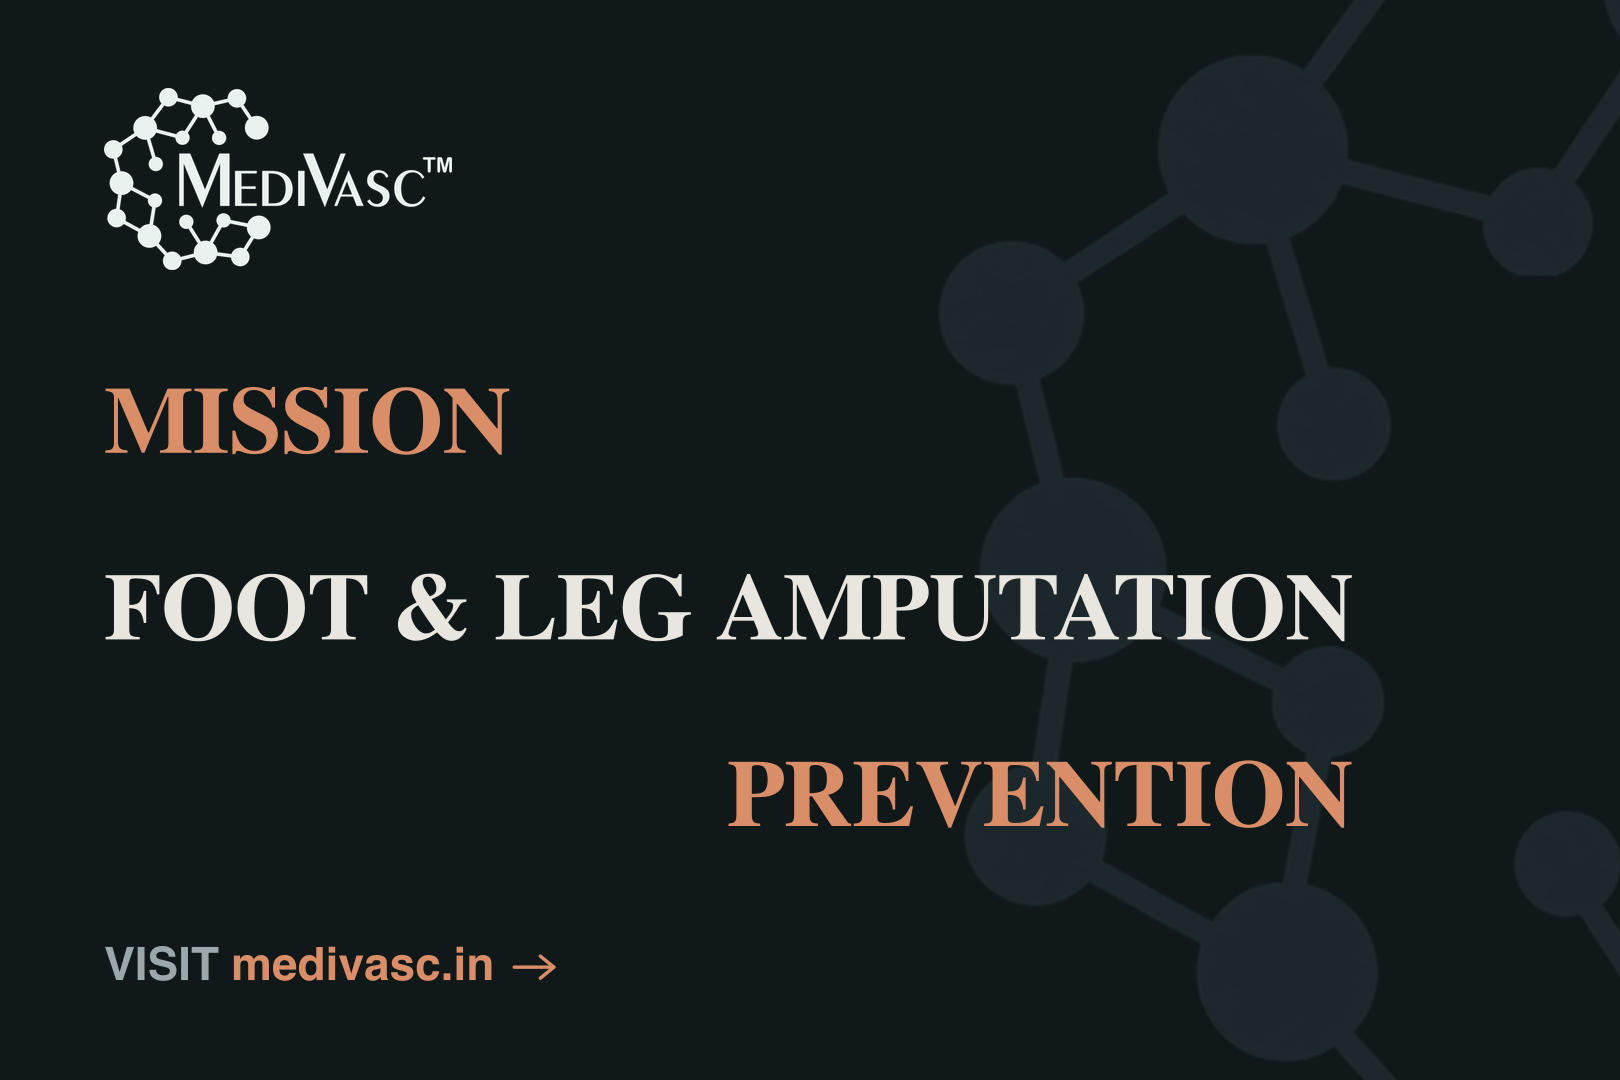
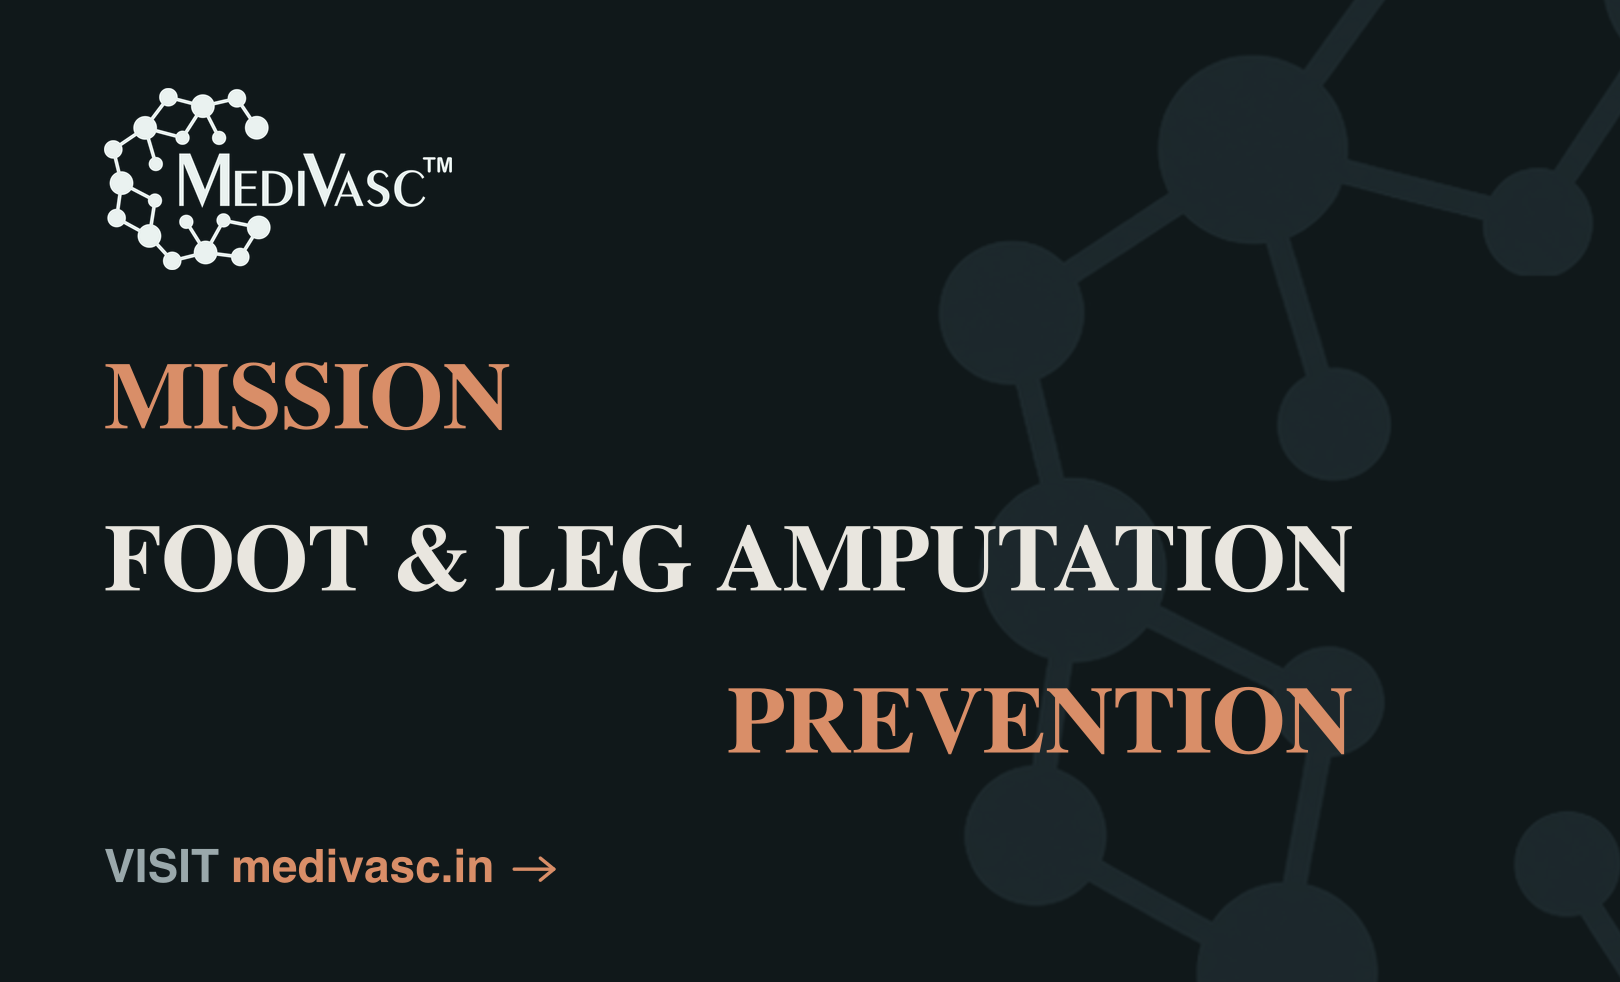
campaign: mission card — tighter rhythm, height solved from it
Line spacing down 20% and the card shortened by exactly what that removed.

The change worth keeping is which way the dependency runs. The height was
fixed at 3:2 and the step was the residual — which is how the card ended up
with a 119px rhythm nobody chose. Now the step is the input and the height is
solved from it: five things one step apart, plus the call to action's box and
the two pads, rounded to an even number. Change fmt.step and the canvas follows.

  step    88px, rendering as a ~95px visible gap (a line's box is a few px
          taller than the capitals in it)
  gaps    118/119/120/119 -> 93/95/96/95, measured off the PNG
  canvas  1620x1080 (3:2) -> 1620x982 (1.650:1)

setStack no longer takes a height budget — width alone binds, since the canvas
now follows the type instead of constraining it. The old `even rhythm` check
was checking a number the layout had just computed; it is replaced by a closing
gap check, which catches the real failure: the last gap is the one that absorbs
the even-height rounding and a trimmed-taller logo.

AMPUTATION and PREVENTION still both end at x=1351.

Claude-Session: https://claude.ai/code/session_013M5hhnoDQX4fewHuZxshRD

diff --git a/assets/campaign/mission/README.md b/assets/campaign/mission/README.md
@@ -10,8 +10,10 @@ conditions strip, no reason-to-act-now, and no rule under the call to action
 (the drawing had one; the owner cut it). A mission card is not a flyer; it says
 what the practice is for, once.
 
-1620 × 1080. The short edge is the campaign's own 1080, so the type scale
-carries over from the signed-off portrait instead of being re-guessed.
+**1620 × 982** (1.650:1). The height is not chosen — it is solved. The card is
+five things one `step` apart, so its height is whatever that comes to; fixing a
+ratio first and letting the step fall out of it is how the first version ended
+up with a 119px rhythm nobody picked. Change `fmt.step` and the canvas follows.
 
 ## The three decisions the card is built on
 
@@ -26,18 +28,22 @@ carries over from the signed-off portrait instead of being re-guessed.
   reads as a near-miss rather than as alignment, so the composer computes the
   edge and then *asserts* it (`alignment` check, 1px tolerance).
 - **One rhythm, lockup to destination.** The logo, each line and the call to
-  action are one equal step apart. That is the drawing. It is not the signed-off
-  portrait's rhythm, which holds the message up under the lockup and gathers the
-  whole leftover into one field below — different card.
+  action are one equal step apart — `fmt.step`, 88px, which renders as a ~95px
+  visible gap because a line's box is fractionally taller than the capitals in
+  it. That is the drawing. It is not the signed-off portrait's rhythm, which
+  holds the message up under the lockup and gathers the whole leftover into one
+  field below — different card.
 
 ## What the renderer solves rather than takes as input
 
-- **The size**, against the box: authored line breaks are honoured (`setStack`,
-  not `balanceRuns` — re-wrapping would discard them) and the largest size that
-  fits both the measure and the height available wins.
-- **The step.** n lines between the lockup and the destination means n+1 gaps.
-  Dividing the slack by n drops the last one and jams the closing line onto the
-  call to action.
+- **The size**, against the measure: authored line breaks are honoured
+  (`setStack`, not `balanceRuns` — re-wrapping would discard them) and the
+  largest size that fits the column wins. Width alone, now that the height
+  follows the type instead of constraining it.
+- **The height.** n lines between the lockup and the destination means n+1 gaps
+  — logo→first, line→line, last→destination — plus the call to action's own box
+  and the two pads. Rounded to an even number, so nothing that later scales or
+  crops the card lands on a half-pixel centre.
 - **Capitals have no descender.** Measuring them with the line box's 26%
   descender allowance hangs a phantom gap under every line and makes an evenly
   stepped stack read bottom-heavy, so the voice declares its own visual height.
@@ -47,11 +53,12 @@ carries over from the signed-off portrait instead of being re-guessed.
 `verify.mjs` gates the write: safe area, flow, and every colour pair against
 both the flat surface and the mark tint. Three invariants the composer reports
 itself fail the build rather than shipping — a stack that stops filling 82% of
-its measure, an even step under 46px, and the flush-right edge missing by more
-than a pixel.
+its measure, a closing gap that drifts more than 2px from the step (the last gap
+is the one that absorbs the even-height rounding), and the flush-right edge
+missing by more than a pixel.
 
 Measured off the rendered PNG rather than off the layout math: `AMPUTATION` and
-`PREVENTION` both end at x=1351, and the four gaps come out 118/119/120/119px.
+`PREVENTION` both end at x=1351, and the four gaps come out 93/95/96/95px.
 
 Nothing here ships: `assets/campaign` is not in `src/build.js`'s deploy copy
 list.
